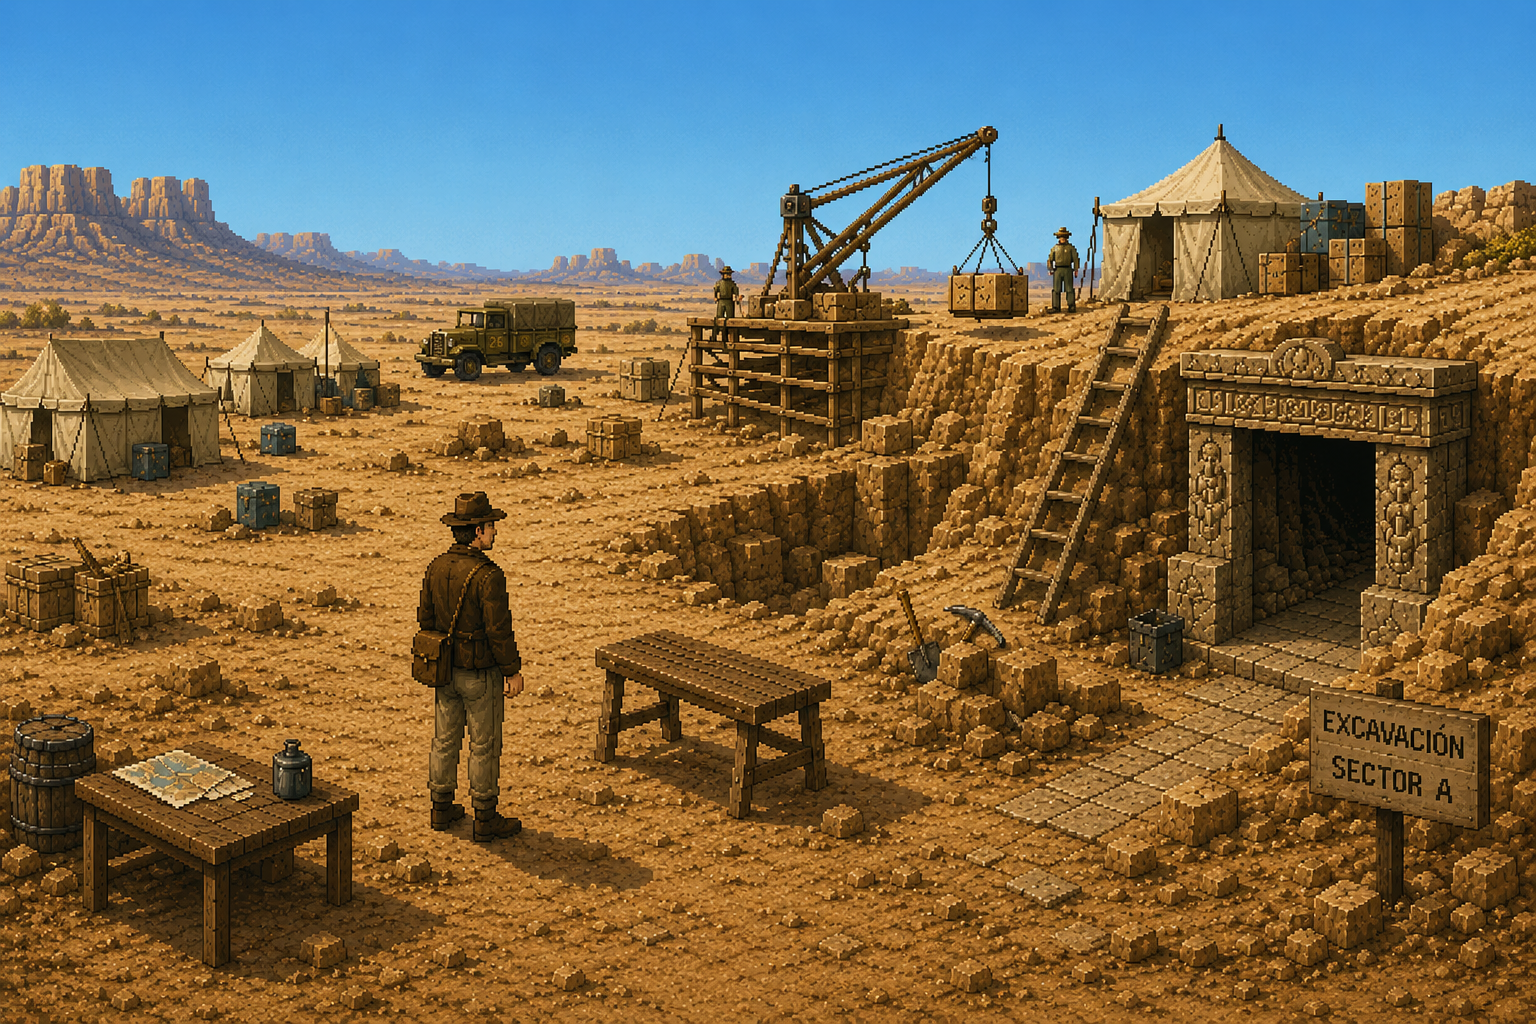
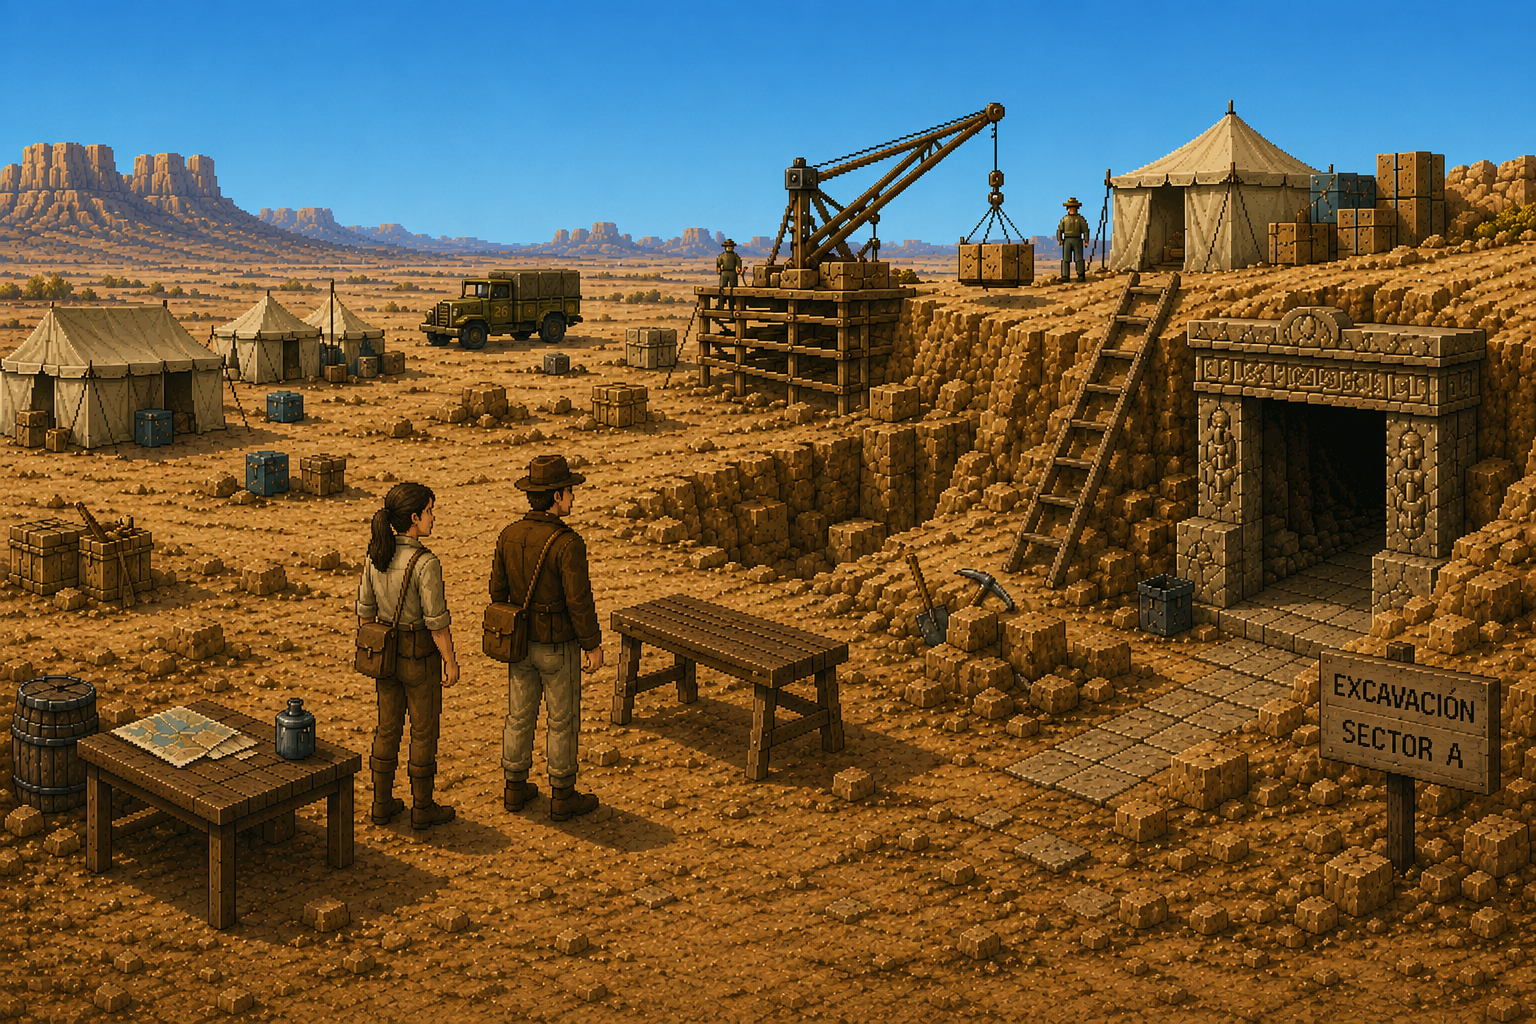
Level 4 backend and images update

diff --git a/tartessos-ui/src/levels/Level03ChamberModel/Level03ChamberModel.tsx b/tartessos-ui/src/levels/Level03ChamberModel/Level03ChamberModel.tsx
@@ -21,11 +21,6 @@ type Exercise3ErrorPayload = {
   errorMessage?: string;
 };
 
-type ChamberModel = {
-  baseClass?: string;
-  derivedClasses?: string[];
-};
-
 export function Level03ChamberModel() {
   const { t } = useTranslation();
   const { completeLevel, isLevelCompleted, progress } = useGame();
@@ -38,7 +33,6 @@ export function Level03ChamberModel() {
   const [validationCode, setValidationCode] = useState<string | null>(
     alreadyCompleted ? savedCode : null,
   );
-  const [model, setModel] = useState<ChamberModel | null>(null);
   const [error, setError] = useState<string | null>(null);
 
   async function handleReviewMap() {
@@ -57,7 +51,6 @@ export function Level03ChamberModel() {
       }
 
       setValidationCode(response.validationCode);
-      setModel(response.model ?? null);
 
       completeLevel(LEVEL_ID, response.validationCode);
     } catch (error) {
@@ -129,26 +122,16 @@ export function Level03ChamberModel() {
 
             <p>{t("levels.level03.successMessage")}</p>
 
-            {model && (
-              <div className={styles.modelSummary}>
-                {model.baseClass && (
-                  <p>
-                    {t("levels.level03.baseClassLabel")}:{" "}
-                    <code>{model.baseClass}</code>
-                  </p>
-                )}
+            <div className={styles.modelSummary}>
+                <p>{t("levels.level03.recognizedChambersIntro")}</p>
 
-                {model.derivedClasses && model.derivedClasses.length > 0 && (
-                  <ul className={styles.classList}>
-                    {model.derivedClasses.map((className) => (
-                      <li key={className}>
-                        <code>{className}</code>
-                      </li>
-                    ))}
-                  </ul>
-                )}
-              </div>
-            )}
+                <ul className={styles.classList}>
+                    <li>{t("levels.level03.chamberTypeCorridor")}</li>
+                    <li>{t("levels.level03.chamberTypeHall")}</li>
+                    <li>{t("levels.level03.chamberTypeMortuary")}</li>
+                    <li>{t("levels.level03.chamberTypeStorage")}</li>
+                </ul>
+            </div>
 
             <ActivationCode
               label={t("levels.level03.activationCodeLabel")}
